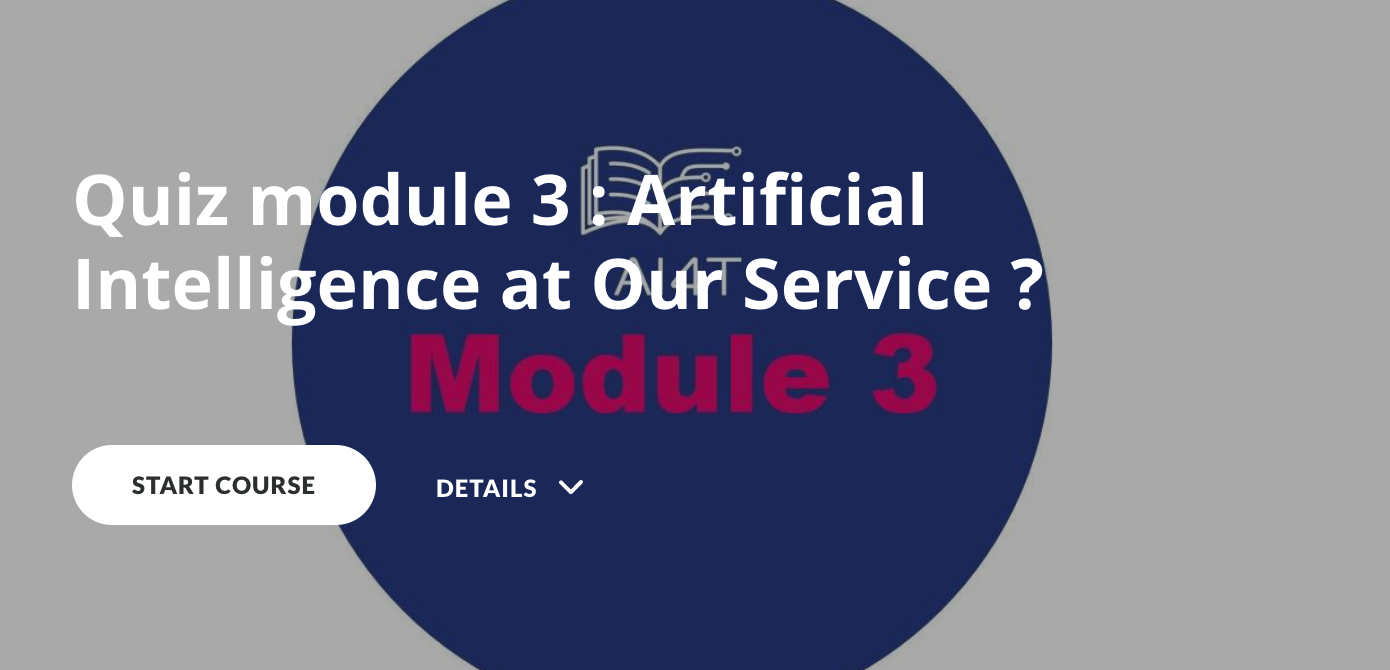
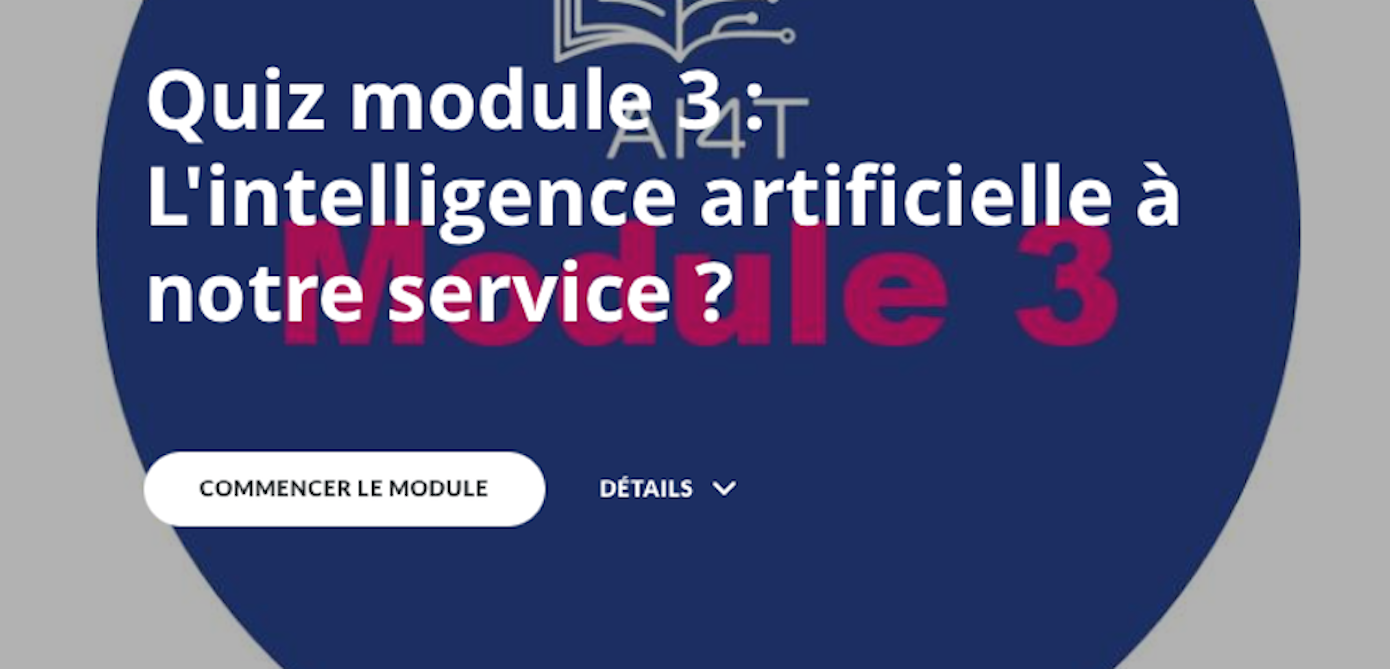
MAJ illustrations / liens quizz dans GIT fr

diff --git a/docs/module-3-AI-at-our-service/3-4-quiz-module-3/3-4-0-quiz-3-humans-and-ai.md b/docs/module-3-AI-at-our-service/3-4-quiz-module-3/3-4-0-quiz-3-humans-and-ai.md
@@ -15,4 +15,4 @@ Le Quiz du Module 3 est composé de 3 parties:
 
 _Cliquez sur l'image ci-dessous et lancez le quiz !_
 
-[![Quiz Module 3: Humans and AI](../Images/AI4T-quiz-module3.png)](Quiz-3-ressources/HTML/AI4T-quiz-module3-artificial-intelligence-at-our-service-html/index.html#/lessons/0BzyyBsBtYAMIu56G1E_wOoZGuIscZop){:target="_blank" }
+[![Quiz Module 3: Humans and AI](../Images/AI4T-quiz-module3.png)](Quiz-3-ressources/HTML/AI4T-quiz-module-3-lintelligence-artificielle-a-notre-service-html/index.html#/lessons/0BzyyBsBtYAMIu56G1E_wOoZGuIscZop){:target="_blank" }

diff --git a/docs/module-2-how-does-ml-work/2-4-quiz-module-2/2-4-0-quiz-2-mechanisms-in-ai.md b/docs/module-2-how-does-ml-work/2-4-quiz-module-2/2-4-0-quiz-2-mechanisms-in-ai.md
@@ -15,4 +15,4 @@ Le Quiz du Module 2 est composé de 3 parties:
 
 _Cliquez sur l'image ci-dessous et lancez le quiz !_
 
-[![Quiz Module 2: Mechanisms in AI](../Images/AI4T-quiz-module2.png)](Quiz-2-ressources/HTML/AI4T-quiz-module2-how-does-machine-learning-works-html/index.html#/lessons/qXewvwMdbXR4wOOcKicXzWTXH44NeOmm){:target="_blank" }
+[![Quiz Module 2: Mechanisms in AI](../Images/AI4T-quiz-module2.png)](Quiz-2-ressources/HTML/AI4T-quiz-module-2-comment-fonctionne-lapprentissage-machine html/index.html#/lessons/qXewvwMdbXR4wOOcKicXzWTXH44NeOmm){:target="_blank" }

diff --git a/docs/module-1-what-is-meant-by-ai/1-4-quiz-module-1/1-4-0-quiz1-who-is-afraid-of-ai.md b/docs/module-1-what-is-meant-by-ai/1-4-quiz-module-1/1-4-0-quiz1-who-is-afraid-of-ai.md
@@ -15,5 +15,5 @@ Le Quiz du Module 1 est composé de 3 parties:
 
 _Cliquez sur l'image ci-dessous et lancez le quiz !_
 
-[![Quiz Module 1: Who is afraid of AI?](../Images/AI4T-quiz-module1.png)](Quiz-1-ressources/HTML/AI4T-quiz-module1-who-is-afraid-of-ai-html/index.html#/lessons/kTdCJvqaYv_E9I8ipVGp2Zx59rc6UFlj
+[![Quiz Module 1: Who is afraid of AI?](../Images/AI4T-quiz-module1.png)](Quiz-1-ressources/HTML/AI4T-quiz-module-1-qui-a-peur-de-l-ia-html/index.html#/lessons/kTdCJvqaYv_E9I8ipVGp2Zx59rc6UFlj
 ){:target="_blank" }
